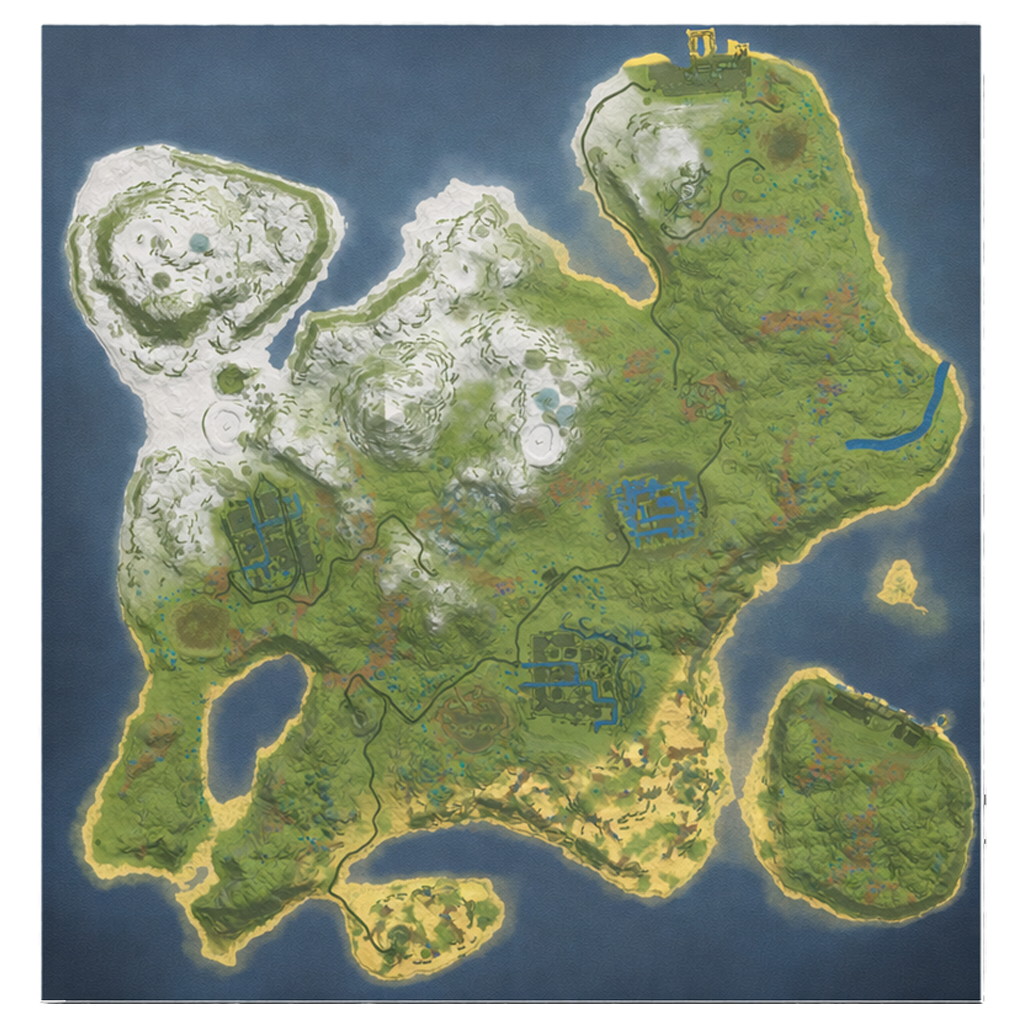
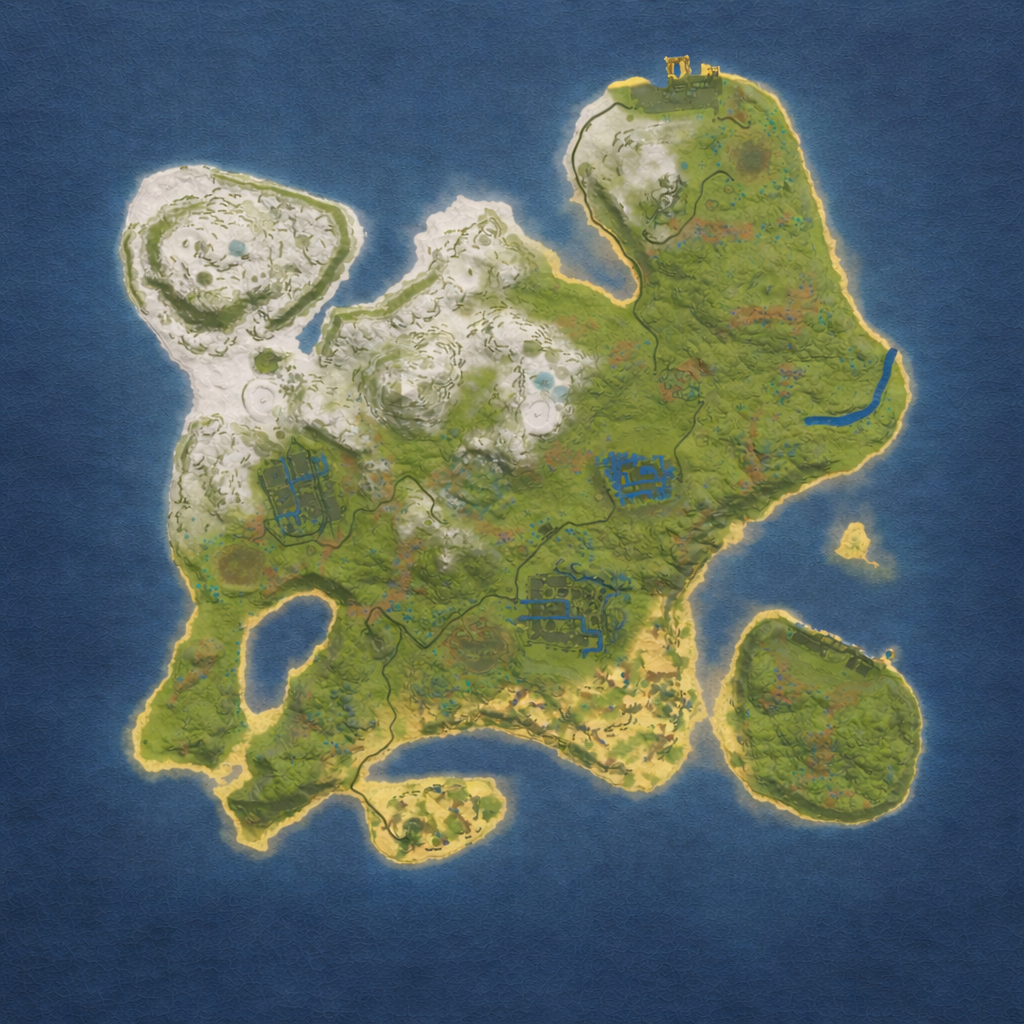
okok

diff --git a/src/lib/desktopBoardManifest.js b/src/lib/desktopBoardManifest.js
@@ -199,15 +199,15 @@ export const desktopBoardAssetSources = {
   },
   surveyMap: {
     runtime: assetPath("/hero-curated/locked/desktop-board/maps/map-1.png"),
-    source: "new board pack assets/board pack/map 1.png",
+    source: "new board pack assets/board pack/map 1 v3.png",
   },
   routeIndexMap: {
     runtime: assetPath("/hero-curated/locked/desktop-board/maps/map-3.png"),
-    source: "new board pack assets/board pack/map 3.png",
+    source: "new board pack assets/board pack/map3 v3.png",
   },
   activationMap: {
     runtime: assetPath("/hero-curated/locked/desktop-board/maps/map-2.png"),
-    source: "new board pack assets/board pack/map 2.png",
+    source: "new board pack assets/board pack/map 2 v3.png",
   },
   zone01Card: {
     runtime: assetPath("/hero-curated/locked/desktop-board/cards/rust_23_oilrig.webp"),
@@ -350,10 +350,10 @@ export const desktopBoardElements = {
     className: "board-item--map board-item--editorial-map board-item--activation-map",
     parallaxDepth: 0.12,
     desktop: createPlacement({
-      x: 488,
-      y: 146,
-      width: 1082,
-      height: 644,
+      x: 458,
+      y: 132,
+      width: 1200,
+      height: 736,
       rotation: -0.2,
       zIndex: 1,
     }),
@@ -429,8 +429,8 @@ export const desktopBoardElements = {
       "board-item--card board-item--media-card board-item--zone-card board-item--zone03-card",
     objectPosition: "50% 54%",
     desktop: {
-      x: 1032,
-      y: 34,
+      x: 1092,
+      y: 18,
       width: 468,
       height: 232,
       rotation: 0.3,
@@ -445,8 +445,8 @@ export const desktopBoardElements = {
       "board-item--card board-item--media-card board-item--zone-card board-item--zone04-card",
     objectPosition: "50% 50%",
     desktop: {
-      x: 1180,
-      y: 452,
+      x: 1214,
+      y: 446,
       width: 338,
       height: 162,
       rotation: -0.1,
@@ -475,8 +475,8 @@ export const desktopBoardElements = {
       "board-item--file-card board-item--document-card board-item--campaign-file-card",
     radius: "22px",
     desktop: {
-      x: 1258,
-      y: 816,
+      x: 1328,
+      y: 790,
       width: 312,
       height: 186,
       rotation: -1.6,
@@ -495,8 +495,8 @@ export const desktopBoardElements = {
     className: "board-item--prop board-item--clip board-item--campaign-file-clip",
     parallaxDepth: 0.16,
     desktop: createPlacement({
-      x: 1378,
-      y: 798,
+      x: 1448,
+      y: 772,
       width: 72,
       height: 64,
       zIndex: 7,
@@ -507,10 +507,10 @@ export const desktopBoardElements = {
     alt: "Zone 02 marker",
     className: "board-item--marker board-item--marker-secondary",
     desktop: {
-      x: 702,
-      y: 430,
-      width: 68,
-      height: 84,
+      x: 695,
+      y: 457,
+      width: 75,
+      height: 96,
       rotation: -6,
       zIndex: 12,
     },
@@ -520,10 +520,10 @@ export const desktopBoardElements = {
     alt: "Zone 03 marker",
     className: "board-item--marker board-item--marker-secondary",
     desktop: {
-      x: 1088,
+      x: 1123,
       y: 247,
-      width: 68,
-      height: 84,
+      width: 75,
+      height: 96,
       rotation: 7,
       zIndex: 12,
     },
@@ -533,10 +533,10 @@ export const desktopBoardElements = {
     alt: "Zone 04 marker",
     className: "board-item--marker board-item--marker-secondary",
     desktop: {
-      x: 1354,
-      y: 620,
-      width: 68,
-      height: 84,
+      x: 1418,
+      y: 674,
+      width: 75,
+      height: 96,
       rotation: 5,
       zIndex: 12,
     },
@@ -546,10 +546,10 @@ export const desktopBoardElements = {
     alt: "Zone 01 marker",
     className: "board-item--marker board-item--marker-secondary",
     desktop: {
-      x: 774,
-      y: 762,
-      width: 68,
-      height: 84,
+      x: 775,
+      y: 836,
+      width: 75,
+      height: 96,
       rotation: -5,
       zIndex: 12,
     },
@@ -559,10 +559,10 @@ export const desktopBoardElements = {
     alt: "Primary site marker",
     className: "board-item--marker board-item--marker-primary",
     desktop: {
-      x: 986,
-      y: 556,
-      width: 72,
-      height: 88,
+      x: 1010,
+      y: 601,
+      width: 80,
+      height: 101,
       rotation: -1,
       zIndex: 13,
     },
@@ -605,28 +605,28 @@ export const desktopBoardElements = {
     "REF. 003",
     "board-item--red-display board-item--map-ref",
     {
-      desktop: { x: 1450, y: 136, maxWidth: 130, zIndex: 9 },
+      desktop: { x: 1525, y: 121, maxWidth: 130, zIndex: 9 },
     },
   ),
   activationMapTitle: createTextItem(
     "ACTIVATION FIELD",
     "board-item--red-display board-item--map-title",
     {
-      desktop: { x: 1218, y: 164, maxWidth: 336, zIndex: 9 },
+      desktop: { x: 1268, y: 153, maxWidth: 336, zIndex: 9 },
     },
   ),
   activationMapSubline: createTextItem(
     "CANDIDATE PLACEMENTS / ROUTE LOGIC / VISIBILITY PLANNING",
     "board-item--editorial-subline",
     {
-      desktop: { x: 1164, y: 204, maxWidth: 392, zIndex: 9 },
+      desktop: { x: 1208, y: 198, maxWidth: 392, zIndex: 9 },
     },
   ),
   activationPriorityStamp: createTextItem(
     "[PRIORITY REGION]",
     "board-item--red-display board-item--priority-stamp",
     {
-      desktop: { x: 1184, y: 398, maxWidth: 220, zIndex: 10 },
+      desktop: { x: 1230, y: 420, maxWidth: 220, zIndex: 10 },
     },
   ),
   zone01Ref: createTextItem("REF. 004", "board-item--red-display board-item--zone-ref", {
@@ -636,10 +636,10 @@ export const desktopBoardElements = {
     desktop: { x: 700, y: 166, maxWidth: 122, zIndex: 11 },
   }),
   zone03Ref: createTextItem("REF. 005", "board-item--red-display board-item--zone-ref", {
-    desktop: { x: 1398, y: 14, maxWidth: 122, zIndex: 11 },
+    desktop: { x: 1458, y: 6, maxWidth: 122, zIndex: 11 },
   }),
   zone04Ref: createTextItem("REF. 007", "board-item--red-display board-item--zone-ref", {
-    desktop: { x: 1432, y: 454, maxWidth: 122, zIndex: 11 },
+    desktop: { x: 1466, y: 448, maxWidth: 122, zIndex: 11 },
   }),
   zone01Headline: createTextItem(
     "HERO ANCHOR",
@@ -659,21 +659,21 @@ export const desktopBoardElements = {
     "DISCOVERY POINT",
     "board-item--red-display board-item--zone-headline",
     {
-      desktop: { x: 1122, y: 104, maxWidth: 214, zIndex: 11 },
+      desktop: { x: 1182, y: 88, maxWidth: 214, zIndex: 11 },
     },
   ),
   zone04Headline: createTextItem(
     "ROUTE PICKUP",
     "board-item--red-display board-item--zone-headline",
     {
-      desktop: { x: 1200, y: 518, maxWidth: 206, zIndex: 11 },
+      desktop: { x: 1234, y: 512, maxWidth: 206, zIndex: 11 },
     },
   ),
   primarySiteBox: createTextItem(
     "PRIMARY SITE",
     "board-item--primary-site-box",
     {
-      desktop: { x: 948, y: 496, maxWidth: 174, zIndex: 14 },
+      desktop: { x: 968, y: 532, maxWidth: 174, zIndex: 14 },
       parallaxDepth: 0.2,
     },
   ),
@@ -683,10 +683,10 @@ export const desktopBoardElements = {
       "board-item--annotation board-item--annotation-route-major board-item--dotted-route",
     opacity: 0.94,
     desktop: {
-      x: 678,
-      y: 214,
-      width: 760,
-      height: 602,
+      x: 669,
+      y: 210,
+      width: 843,
+      height: 688,
       zIndex: 9,
     },
   }),
@@ -695,10 +695,10 @@ export const desktopBoardElements = {
     annotationVariant: "siteFlow",
     className: "board-item--annotation board-item--annotation-arrow board-item--primary-arrow",
     desktop: {
-      x: 842,
-      y: 650,
-      width: 250,
-      height: 126,
+      x: 851,
+      y: 708,
+      width: 277,
+      height: 144,
       rotation: 144,
       zIndex: 10,
     },
@@ -708,10 +708,10 @@ export const desktopBoardElements = {
     annotationVariant: "siteFlow",
     className: "board-item--annotation board-item--annotation-arrow board-item--primary-arrow",
     desktop: {
-      x: 824,
-      y: 458,
-      width: 246,
-      height: 122,
+      x: 831,
+      y: 489,
+      width: 273,
+      height: 139,
       rotation: 196,
       zIndex: 10,
     },
@@ -721,10 +721,10 @@ export const desktopBoardElements = {
     annotationVariant: "siteFlow",
     className: "board-item--annotation board-item--annotation-arrow board-item--primary-arrow",
     desktop: {
-      x: 980,
-      y: 340,
-      width: 246,
-      height: 122,
+      x: 1004,
+      y: 354,
+      width: 273,
+      height: 139,
       rotation: -48,
       zIndex: 10,
     },
@@ -734,10 +734,10 @@ export const desktopBoardElements = {
     annotationVariant: "siteFlow",
     className: "board-item--annotation board-item--annotation-arrow board-item--primary-arrow",
     desktop: {
-      x: 1096,
-      y: 564,
-      width: 270,
-      height: 124,
+      x: 1132,
+      y: 610,
+      width: 299,
+      height: 142,
       rotation: 4,
       zIndex: 10,
     },
@@ -748,9 +748,9 @@ export const desktopBoardElements = {
     annotationVariant: "zone",
     desktop: {
       x: 760,
-      y: 750,
-      width: 96,
-      height: 96,
+      y: 822,
+      width: 106,
+      height: 110,
       rotation: -10,
       zIndex: 11,
     },
@@ -760,10 +760,10 @@ export const desktopBoardElements = {
     className: "board-item--annotation board-item--annotation-circle-focus",
     annotationVariant: "zone",
     desktop: {
-      x: 690,
-      y: 420,
-      width: 94,
-      height: 94,
+      x: 682,
+      y: 445,
+      width: 104,
+      height: 107,
       rotation: -12,
       zIndex: 11,
     },
@@ -773,10 +773,10 @@ export const desktopBoardElements = {
     className: "board-item--annotation board-item--annotation-circle-focus",
     annotationVariant: "zone",
     desktop: {
-      x: 1076,
-      y: 238,
-      width: 96,
-      height: 96,
+      x: 1110,
+      y: 237,
+      width: 106,
+      height: 110,
       rotation: 7,
       zIndex: 11,
     },
@@ -786,10 +786,10 @@ export const desktopBoardElements = {
     className: "board-item--annotation board-item--annotation-circle-focus",
     annotationVariant: "zone",
     desktop: {
-      x: 1340,
-      y: 612,
-      width: 98,
-      height: 98,
+      x: 1403,
+      y: 665,
+      width: 109,
+      height: 112,
       rotation: 6,
       zIndex: 11,
     },
@@ -799,10 +799,10 @@ export const desktopBoardElements = {
     className: "board-item--annotation board-item--annotation-circle-primary",
     annotationVariant: "primaryOuter",
     desktop: {
-      x: 956,
-      y: 536,
-      width: 132,
-      height: 132,
+      x: 977,
+      y: 578,
+      width: 146,
+      height: 151,
       rotation: -2,
       zIndex: 11,
     },
@@ -813,10 +813,10 @@ export const desktopBoardElements = {
       "board-item--annotation board-item--annotation-circle-primary board-item--annotation-circle-inner",
     annotationVariant: "primaryInner",
     desktop: {
-      x: 972,
-      y: 552,
-      width: 100,
-      height: 100,
+      x: 995,
+      y: 596,
+      width: 111,
+      height: 114,
       rotation: 3,
       zIndex: 12,
     },
@@ -856,8 +856,8 @@ export const desktopBoardElements = {
     className:
       "board-item--annotation-note board-item--handwritten board-item--handwritten-red board-item--handwritten-compact",
     desktop: {
-      x: 1476,
-      y: 104,
+      x: 1510,
+      y: 88,
       rotation: 3,
       maxWidth: 142,
       zIndex: 14,
